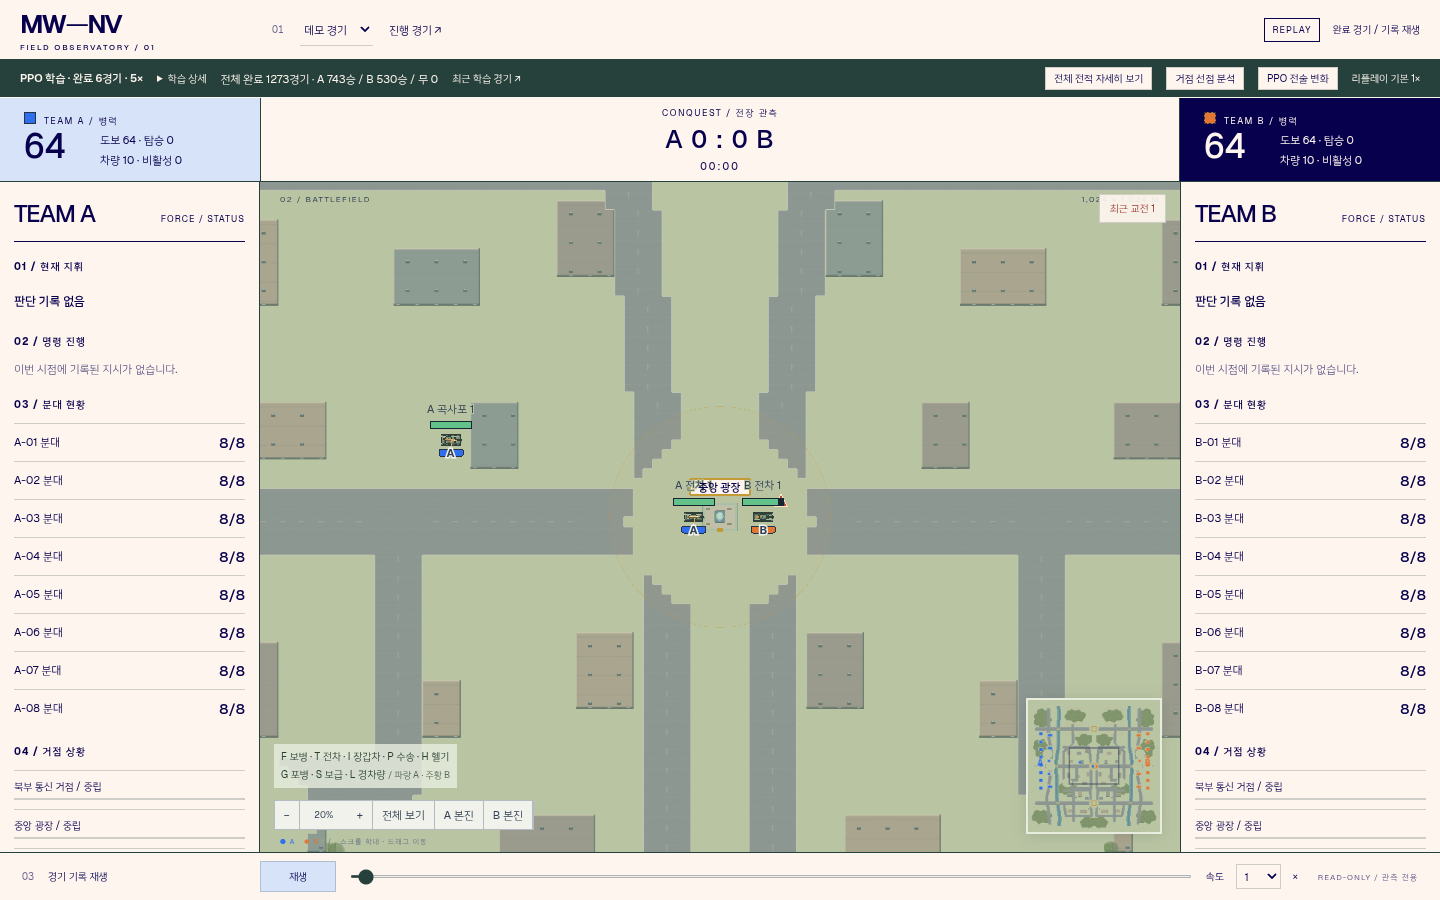
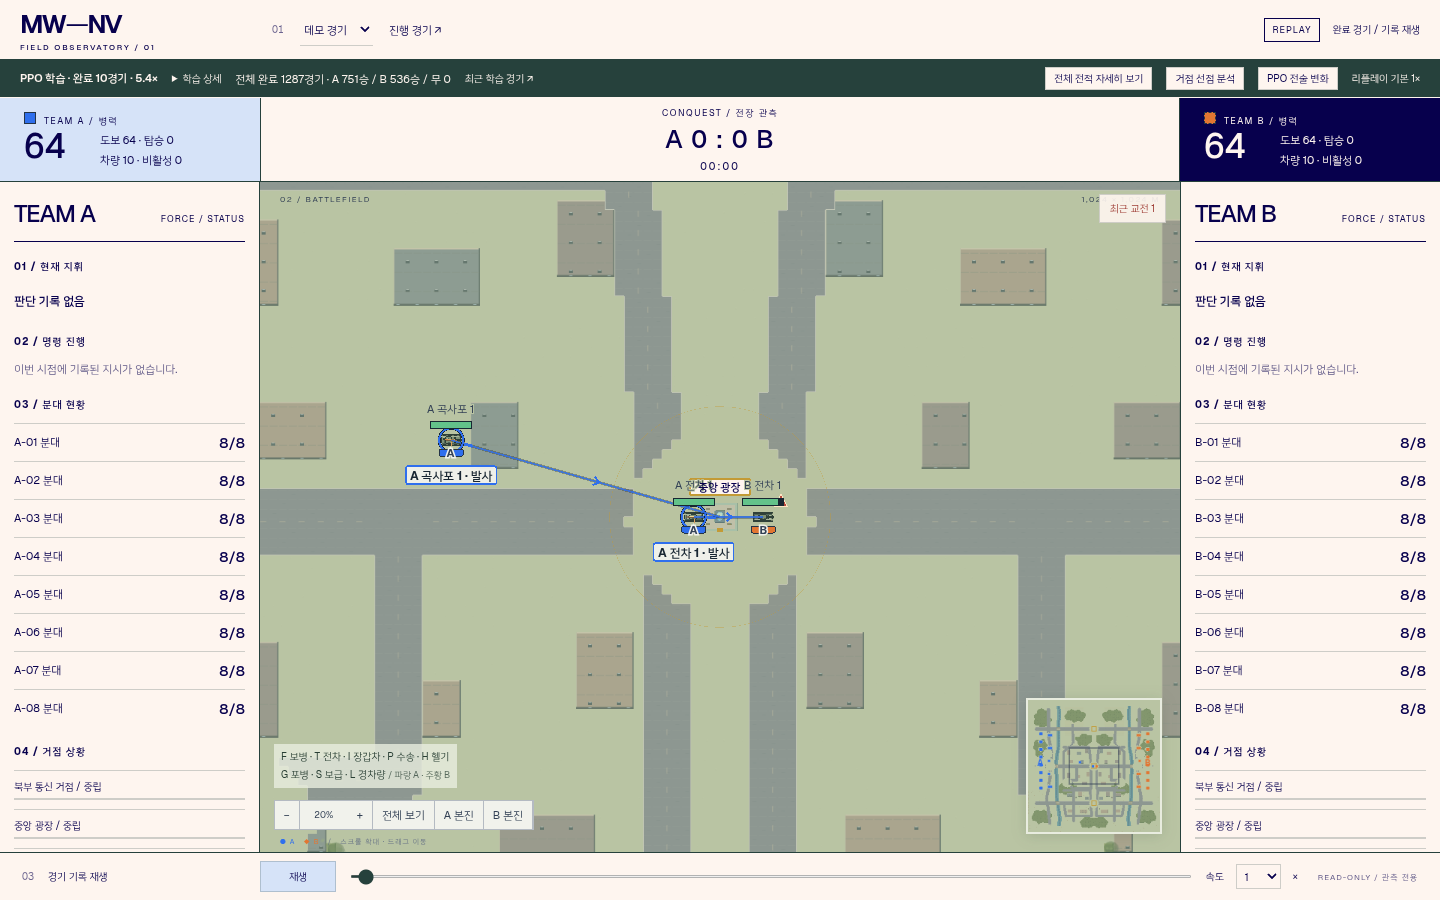
fix(viewer): identify firing units through impact with transient origin links

diff --git a/v1.0.0/viewer/src/combat-effects.js b/v1.0.0/viewer/src/combat-effects.js
@@ -1,5 +1,6 @@
+import {entityName} from './command-view.js';
 /** Replay-time effects. No wall clock, random generator, damage or targeting decisions. */
-import {Container,Sprite,Texture,Rectangle,Graphics} from 'pixi.js';
+import {Container,Sprite,Texture,Rectangle,Graphics,Text} from 'pixi.js';
 const KINDS=['flash','rifle','cannon','tank','rocket','blast','dust','spark','miss','armor'];
 export function weaponKind(shot,units){const actor=units.find(u=>u.id===shot.unit);return shot.weapon==='ap'?(actor?.type_id==='MBT'?'tank':'rocket'):shot.weapon==='cannon'?'cannon':['tank','rocket','autocannon'].includes(shot.weapon)?(shot.weapon==='autocannon'?'cannon':shot.weapon):'rifle';}
 export function effectSamples(frame,time=frame.render_time??frame.tick/5,reduced=false){
@@ -15,8 +16,16 @@ export function effectSamples(frame,time=frame.render_time??frame.tick/5,reduced
  for(const p of frame.projectiles??[]){if(!p.origin||p.fired_tick==null)continue;const age=time-p.fired_tick/5,duration=(p.impact_tick-p.fired_tick)/5;if(age<0||age>duration)continue;const ax=p.origin.x_cm*.12,ay=p.origin.y_cm*.12,bx=p.x_cm*.12,by=p.y_cm*.12,f=age/duration;if(age<.12)add('flash',ax,ay,30,age/.12);if(!reduced){const x=ax+(bx-ax)*f,y=ay+(by-ay)*f-Math.sin(f*Math.PI)*90,angle=Math.atan2(by-ay-Math.cos(f*Math.PI)*Math.PI*90,bx-ax);add('rocket',x,y,18,f,angle);for(let j=1;j<=4;j++){const t=f-j*.012;if(t>=0)add('dust',ax+(bx-ax)*t,ay+(by-ay)*t-Math.sin(t*Math.PI)*90,8,t,0,(5-j)*.12);}}}
  return out.sort((a,b)=>Number(b.kind==='blast')-Number(a.kind==='blast')).slice(0,160);
 }
+/** Firing attribution uses immutable event coordinates, including artillery after impact. */
+export function fireSources(frame,time){
+ const records=new Map();
+ const add=(shot,at,until,destination)=>{if(!shot.origin||!destination||time<at||time>until||shot.unit==null)return;const key=String(shot.unit);if((records.get(key)?.at??-Infinity)>at)return;const unit=frame.units.find(u=>u.id===shot.unit);records.set(key,{key,unit:shot.unit,team:shot.team??unit?.team,origin:shot.origin,destination,at,alpha:Math.min(1,(until-time)/.35),name:entityName(frame,shot.unit)==='—'?'#'+shot.unit:entityName(frame,shot.unit)});};
+ for(const shot of frame.shots??[]){const kind=weaponKind(shot,frame.units);if(['tank','rocket','cannon'].includes(kind))add(shot,shot.tick/5,shot.tick/5+1.1,shot.destination);}
+ for(const shot of [...(frame.projectiles??[]),...(frame.impacts??[])])if(shot.fired_tick!=null&&shot.impact_tick!=null)add(shot,shot.fired_tick/5,Math.max(shot.impact_tick,shot.tick??shot.impact_tick)/5+.9,{x_cm:shot.x_cm,y_cm:shot.y_cm});
+ return [...records.values()].sort((a,b)=>b.at-a.at||a.unit-b.unit).slice(0,8);
+}
 export class CombatEffects{
- constructor(world){this.layer=new Container();world.addChild(this.layer);this.directions=new Graphics();this.layer.addChild(this.directions);this.pool=[];const canvas=document.createElement('canvas');canvas.width=8*48;canvas.height=KINDS.length*48;const c=canvas.getContext('2d');
+ constructor(world){this.layer=new Container();world.addChild(this.layer);this.directions=new Graphics();this.layer.addChild(this.directions);this.pool=[];this.sources=new Container();world.addChild(this.sources);this.sourceGraphics=new Graphics();this.sources.addChild(this.sourceGraphics);this.sourceLabels=[];const canvas=document.createElement('canvas');canvas.width=8*48;canvas.height=KINDS.length*48;const c=canvas.getContext('2d');
   const rect=(color,x,y,w,h)=>{c.fillStyle=color;c.fillRect(Math.round(x),Math.round(y),Math.max(1,Math.round(w)),Math.max(1,Math.round(h)));};
   const oval=(color,cx,cy,r)=>{for(let y=-r;y<=r;y++){const half=Math.floor(Math.sqrt(Math.max(0,r*r-y*y)));rect(color,cx-half,cy+y,half*2+1,1);}};
   for(let k=0;k<KINDS.length;k++)for(let f=0;f<8;f++){c.save();c.translate(f*48,k*48);const kind=KINDS[k],phase=f/7;
@@ -29,6 +38,28 @@ export class CombatEffects{
   }
   this.base=Texture.from(canvas);this.base.source.scaleMode='nearest';this.textures=new Map();for(let k=0;k<KINDS.length;k++)for(let f=0;f<8;f++)this.textures.set(`${KINDS[k]}:${f}`,new Texture({source:this.base.source,frame:new Rectangle(f*48,k*48,48,48)}));
  }
- update(frame,time,zoom,reduced,camera){this.directions.clear();if(camera){const width=camera.host.clientWidth,height=camera.host.clientHeight;for(const shot of [...(frame.shots??[]),...(frame.projectiles??[])]){const origin=shot.origin,at=(shot.fired_tick??shot.tick)/5,age=time-at;if(!origin||age<0||age>1)continue;const sx=origin.x_cm*.12*zoom+camera.x,sy=origin.y_cm*.12*zoom+camera.y;if(sx>=0&&sx<=width&&sy>=0&&sy<=height)continue;const dx=sx-width/2,dy=sy-height/2,f=Math.min((width/2-18)/Math.max(1,Math.abs(dx)),(height/2-18)/Math.max(1,Math.abs(dy))),x=(width/2+dx*f-camera.x)/zoom,y=(height/2+dy*f-camera.y)/zoom,a=Math.atan2(dy,dx),r=8/zoom;this.directions.poly([x+Math.cos(a)*r,y+Math.sin(a)*r,x+Math.cos(a+2.4)*r,y+Math.sin(a+2.4)*r,x+Math.cos(a-2.4)*r,y+Math.sin(a-2.4)*r]).fill({color:0xe5b967,alpha:1-age});}}const samples=effectSamples(frame,time,reduced);for(let i=0;i<Math.max(this.pool.length,samples.length);i++){let s=this.pool[i];if(!s){s=new Sprite();s.anchor.set(.5);this.layer.addChild(s);this.pool.push(s);}const p=samples[i];s.visible=!!p;if(!p)continue;s.texture=this.textures.get(`${p.kind}:${p.frame}`);s.position.set(p.x,p.y);const minimum=['tank','rocket'].includes(p.kind)?16:p.kind==='flash'?14:10;s.width=p.length!=null?Math.max(p.length,24/zoom):(p.kind==='blast'?p.size:Math.max(p.size,minimum/zoom));s.height=p.length!=null?Math.max(16/zoom,p.size):s.width;s.rotation=p.rotation;s.alpha=p.alpha*(p.kind==='dust'?1-p.frame/8:1);}}
- destroy(){this.layer.destroy({children:true});for(const t of this.textures.values())t.destroy(false);this.base.destroy(true);}
+ update(frame,time,zoom,reduced,camera){
+ this.directions.clear();this.sourceGraphics.clear();for(const label of this.sourceLabels)label.visible=false;
+ if(camera){
+  this.sources.scale.set(1/zoom);this.sources.position.set(-camera.x/zoom,-camera.y/zoom);
+  const g=this.sourceGraphics,w=camera.host.clientWidth,h=camera.host.clientHeight,boxes=[];
+  for(const [i,shot] of fireSources(frame,time).entries()){
+   const color=shot.team===0?0x2f6fed:shot.team===1?0xe27632:0xc39a35;
+   const ax=shot.origin.x_cm*.12*zoom+camera.x,ay=shot.origin.y_cm*.12*zoom+camera.y,bx=shot.destination.x_cm*.12*zoom+camera.x,by=shot.destination.y_cm*.12*zoom+camera.y;
+   // Draw a short-lived full connection so an impact can be traced back immediately.
+   g.moveTo(ax,ay).lineTo(bx,by).stroke({width:3,color:0x182632,alpha:.35*shot.alpha});g.moveTo(ax,ay).lineTo(bx,by).stroke({width:1.5,color,alpha:.8*shot.alpha});
+   const angle=Math.atan2(by-ay,bx-ax),t=.55,cx=ax+(bx-ax)*t,cy=ay+(by-ay)*t;
+   g.moveTo(cx-Math.cos(angle-.65)*7,cy-Math.sin(angle-.65)*7).lineTo(cx,cy).lineTo(cx-Math.cos(angle+.65)*7,cy-Math.sin(angle+.65)*7).stroke({width:2,color,alpha:shot.alpha});
+   const outside=ax<12||ax>w-12||ay<12||ay>h-12;
+   let x=ax,y=ay;if(outside){const dx=ax-w/2,dy=ay-h/2,t=Math.min((w/2-16)/Math.max(1,Math.abs(dx)),(h/2-16)/Math.max(1,Math.abs(dy)));x=w/2+dx*t;y=h/2+dy*t;}
+   g.circle(x,y,12).stroke({width:3,color:0x182632,alpha:shot.alpha}).circle(x,y,12).stroke({width:2,color,alpha:shot.alpha});
+   g.moveTo(x+Math.cos(angle)*14,y+Math.sin(angle)*14).lineTo(x+Math.cos(angle)*22,y+Math.sin(angle)*22).stroke({width:3,color,alpha:shot.alpha});
+   let label=this.sourceLabels[i];if(!label){label=new Text({text:'',style:{fontFamily:'Geist, NanumSquare',fontSize:12,fontWeight:'bold',fill:0x182632}});label.resolution=Math.min(2,globalThis.devicePixelRatio||1);this.sources.addChild(label);this.sourceLabels.push(label);}
+   label.text=`${outside?'화면 밖 · ':''}${shot.name} · 발사`;label.visible=true;label.alpha=shot.alpha;
+   const lx=Math.max(4,Math.min(w-label.width-8,x-label.width/2));const ly=[28,-58,50,-80].map(offset=>Math.max(4,Math.min(h-label.height-4,y+offset))).find(y=>!boxes.some(b=>lx<b.x+b.w&&lx+label.width>b.x&&y<b.y+b.h&&y+label.height>b.y));if(ly==null){label.visible=false;continue;}boxes.push({x:lx-4,y:ly-2,w:label.width+8,h:label.height+4});label.position.set(lx,ly);
+   g.roundRect(lx-4,ly-2,label.width+8,label.height+4,2).fill({color:0xf1f2ec,alpha:.96*shot.alpha}).stroke({width:1.5,color,alpha:shot.alpha});
+  }
+ }
+ const samples=effectSamples(frame,time,reduced);for(let i=0;i<Math.max(this.pool.length,samples.length);i++){let s=this.pool[i];if(!s){s=new Sprite();s.anchor.set(.5);this.layer.addChild(s);this.pool.push(s);}const p=samples[i];s.visible=!!p;if(!p)continue;s.texture=this.textures.get(`${p.kind}:${p.frame}`);s.position.set(p.x,p.y);const minimum=['tank','rocket'].includes(p.kind)?16:p.kind==='flash'?14:10;s.width=p.length!=null?Math.max(p.length,24/zoom):(p.kind==='blast'?p.size:Math.max(p.size,minimum/zoom));s.height=p.length!=null?Math.max(16/zoom,p.size):s.width;s.rotation=p.rotation;s.alpha=p.alpha*(p.kind==='dust'?1-p.frame/8:1);}}
+ destroy(){this.sources.destroy({children:true});this.layer.destroy({children:true});for(const t of this.textures.values())t.destroy(false);this.base.destroy(true);}
 }

diff --git a/v1.0.0/viewer/src/main.js b/v1.0.0/viewer/src/main.js
@@ -43,6 +43,6 @@ host.addEventListener('click',e=>{if(e.target.closest('button,select,input,summa
 host.addEventListener('keydown',e=>{if(e.key==='Escape'&&scene){scene.selected=null;scene.follow=false;pointer=null;tooltip(null);}if(e.code==='Space'&&!e.target.closest('button,input,select,summary')&&!live){e.preventDefault();$('pause').click();}});
 for(const team of [0,1]){const b=document.createElement('button');b.textContent=`${team===0?'A':'B'} 본진`;b.onclick=()=>{const f=currentFrame?.facilities.find(f=>f.kind==='HQ'&&f.owner===team);if(f){scene.follow=false;scene.camera.zoom=.4;scene.camera.focus(f.x_cm*.12,f.y_cm*.12);}};document.querySelector('.map-tools').append(b);}
 
-if(['localhost','127.0.0.1'].includes(location.hostname))window.__mwViewState=()=>({zoom:scene?.camera.zoom,detail:scene?.detail,resolution:scene?.app.renderer.resolution,visibleVehicles:scene?[...scene.sprites.values()].filter(a=>a.turret?.visible).length:0,camera:{x:scene?.camera.x,y:scene?.camera.y},trackingPosition:currentFrame&&selectedEntity(currentFrame),effects:scene?.vfx.pool.filter(p=>p.visible).length??0,hovered:scene?.hovered?.id,selected:scene?.selected,follow:!!scene?.follow,badges:scene?.overlay.badges?.map(b=>({id:b.id,x:b.ax,y:b.ay,label:b.showLabel,w:b.w,h:b.h,type:b.type_id})),combat:scene?.overlay.combats?.length??0});
+if(['localhost','127.0.0.1'].includes(location.hostname))window.__mwViewState=()=>({zoom:scene?.camera.zoom,detail:scene?.detail,resolution:scene?.app.renderer.resolution,visibleVehicles:scene?[...scene.sprites.values()].filter(a=>a.turret?.visible).length:0,camera:{x:scene?.camera.x,y:scene?.camera.y},trackingPosition:currentFrame&&selectedEntity(currentFrame),fireSources:scene?.vfx.sourceLabels.filter(p=>p.visible).map(p=>p.text),effects:scene?.vfx.pool.filter(p=>p.visible).length??0,hovered:scene?.hovered?.id,selected:scene?.selected,follow:!!scene?.follow,badges:scene?.overlay.badges?.map(b=>({id:b.id,x:b.ax,y:b.ay,label:b.showLabel,w:b.w,h:b.h,type:b.type_id})),combat:scene?.overlay.combats?.length??0});
 
 startLeagueView();

diff --git a/v1.0.0/viewer/fire-origin.test.js b/v1.0.0/viewer/fire-origin.test.js
@@ -1,0 +1,5 @@
+import {test} from 'node:test';import assert from 'node:assert/strict';import {fireSources} from './src/combat-effects.js';
+const unit={id:1,type_id:'MBT',team:0,x_cm:9000,y_cm:9000};
+test('impact attribution lasts beyond projectile, uses firing coordinates and rewinds',()=>{const frame={units:[unit],shots:[{unit:1,weapon:'ap',tick:5,origin:{x_cm:10,y_cm:20},destination:{x_cm:400,y_cm:500}}]};assert.equal(fireSources(frame,1.6).length,1);assert.equal(fireSources(frame,1.6)[0].origin.x_cm,10);assert.equal(fireSources(frame,2.2).length,0);assert.equal(fireSources(frame,.9).length,0);assert.equal(fireSources(frame,1.6).length,1);});
+test('artillery remains attributable after impact and duplicate records collapse',()=>{const shot={unit:2,team:1,fired_tick:5,impact_tick:20,origin:{x_cm:0,y_cm:0},x_cm:900,y_cm:900};const frame={units:[{id:2,type_id:'SPH',team:1}],projectiles:[shot],impacts:[shot]};assert.equal(fireSources(frame,4.4).length,1);assert.equal(fireSources(frame,4.4)[0].team,1);assert.equal(fireSources(frame,5).length,0);assert.equal(fireSources({...frame,projectiles:[],impacts:[{...shot,origin:null}]},4.4).length,0);});
+test('projected artillery event tick offsets cannot duplicate the source at impact',()=>{const origin={x_cm:0,y_cm:0},p={unit:2,team:1,origin,x_cm:900,y_cm:900};const frame={units:[],projectiles:[{...p,fired_tick:1,impact_tick:16}],impacts:[{...p,fired_tick:0,impact_tick:15,tick:16}]};assert.equal(fireSources(frame,3.2).length,1);assert.equal(fireSources({...frame,projectiles:[]},4).length,1);});

diff --git a/v1.0.0/docs/league-transition/README.md b/v1.0.0/docs/league-transition/README.md
@@ -53,3 +53,7 @@ Initial evaluation now starts before training but runs on1CPU alongside1CPU trai
 Public `/api/insights` exposes per-learner outcomes, on-policy training steps, opportunity/selection/accepted/completed/failed counts and recent results. Replay metadata explicitly names its actual PPO assignments; old recordings keep unknown assignments. Tank/tracer minimum sizes account for atlas padding, and objective labels are lifted away from shot paths. No weapon damage/range/timing is changed by VFX.
 
 Cloudflare preview deployments succeed, but this execution network rejects preview-host CONNECT requests with403. Local Chromium checks and the actual production browser/API checks are recorded separately; do not claim a preview browser pass. Environment start instructions have been saved as a draft for league-v1; they require user Save/Publish to apply. They do not provide permanent CPU hosting.
+
+## T10 firing attribution follow-up
+
+Heavy direct shots now retain a team-colored origin ring, named firing-unit label and a thin directional connection for1.1 replay seconds. Artillery retains its origin through flight and0.9seconds after the recorded impact. Offscreen sources use an edge label. Labels avoid each other, at most8 sources render, and the immutable firing/impact coordinates never follow moving targets. Missing origin data remains unknown. Effects stay synchronized to replay pause/seek and reduced-motion settings. JS29/build and Chromium tank/artillery source-name assertions at flight/impact/rewind pass; four fixture screenshots updated. Productionbdd8e560. No engine, damage, training or model change.

diff --git a/v1.0.0/STATE.md b/v1.0.0/STATE.md
@@ -1,6 +1,6 @@
 # MW-NV v1.0.0 STATE
-Current: T09 implementation COMPLETE;200game pilot RUNNING (not completed)
-Viewer: https://mw-nv.pages.dev production41371462; previewcc07b34f; previous17e65f49 retained
+Current: T10 firing attribution COMPLETE;200game league pilot continues unchanged
+Viewer: https://mw-nv.pages.dev productionbdd8e560; prior41371462 retained
 Features: wheel/pinch zoom+drag; real units>=20%; DPR<=2 screen text; tank/artillery origin trails
 Movement: rules4 footprint paths/physical column; mirrored bridge tests; reference-route comparisons100 pass
 Audit:10games A4/B6 west7/east3; deterministic reexecution PASS; traffic failures remain
@@ -8,7 +8,7 @@ Learning: independent PPO1/PPO2;10s tactics/paired30s NIM; initial evaluation1CP
 Runtime: league-v1 LIVE generation20/7games/7864steps; initial eval33/80
 Recovery: data/league-v1/current.json; source data/preserved/pre-league-checkpoint-00002090-d95aa585/latest.npz
 Archive: old2090 and new initial full recovery remotely verified; immutable10policy/50full; distinct2 local generations
-Verified: Python175 + focused23; JS26/build; Chromium DPR/LOD/effects/hover/mobile/500units
+Verified: firing attribution JS29/build; Chromium source identity, post-impact artillery, pause/rewind PASS
 Evidence: docs/league-transition/README.md, engine-audit/REPORT.md, legacy-backup.json
 Next: monitor200game/confirmation pilot; T07 causal interventions/shared-PPO control and traffic follow-up remain
 Limits:500units SwiftShader~11.7FPS under load; actual Mac/strategy improvement/permanent CPU unverified
